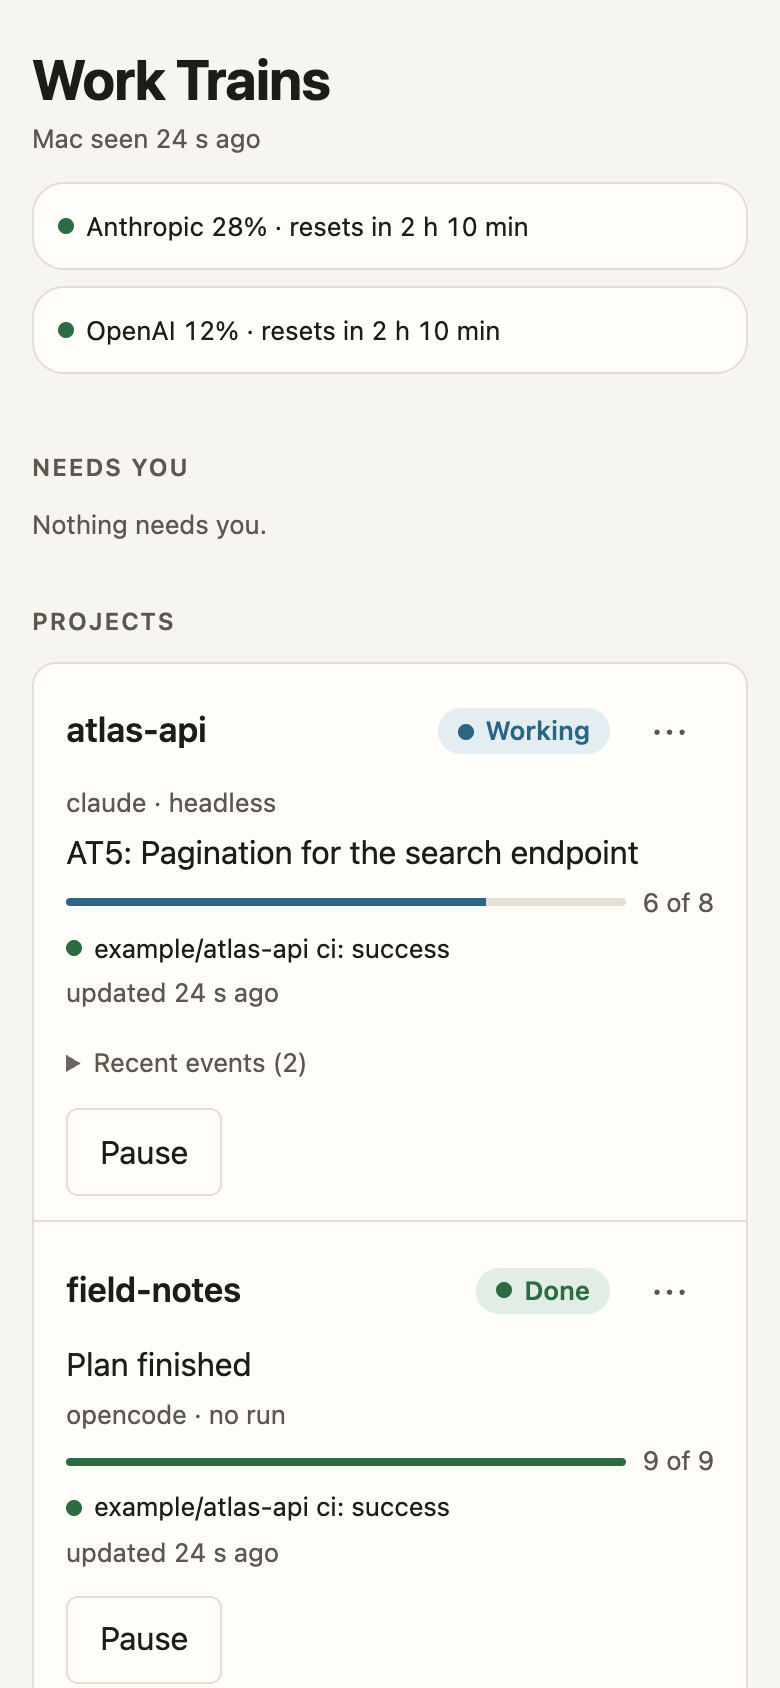
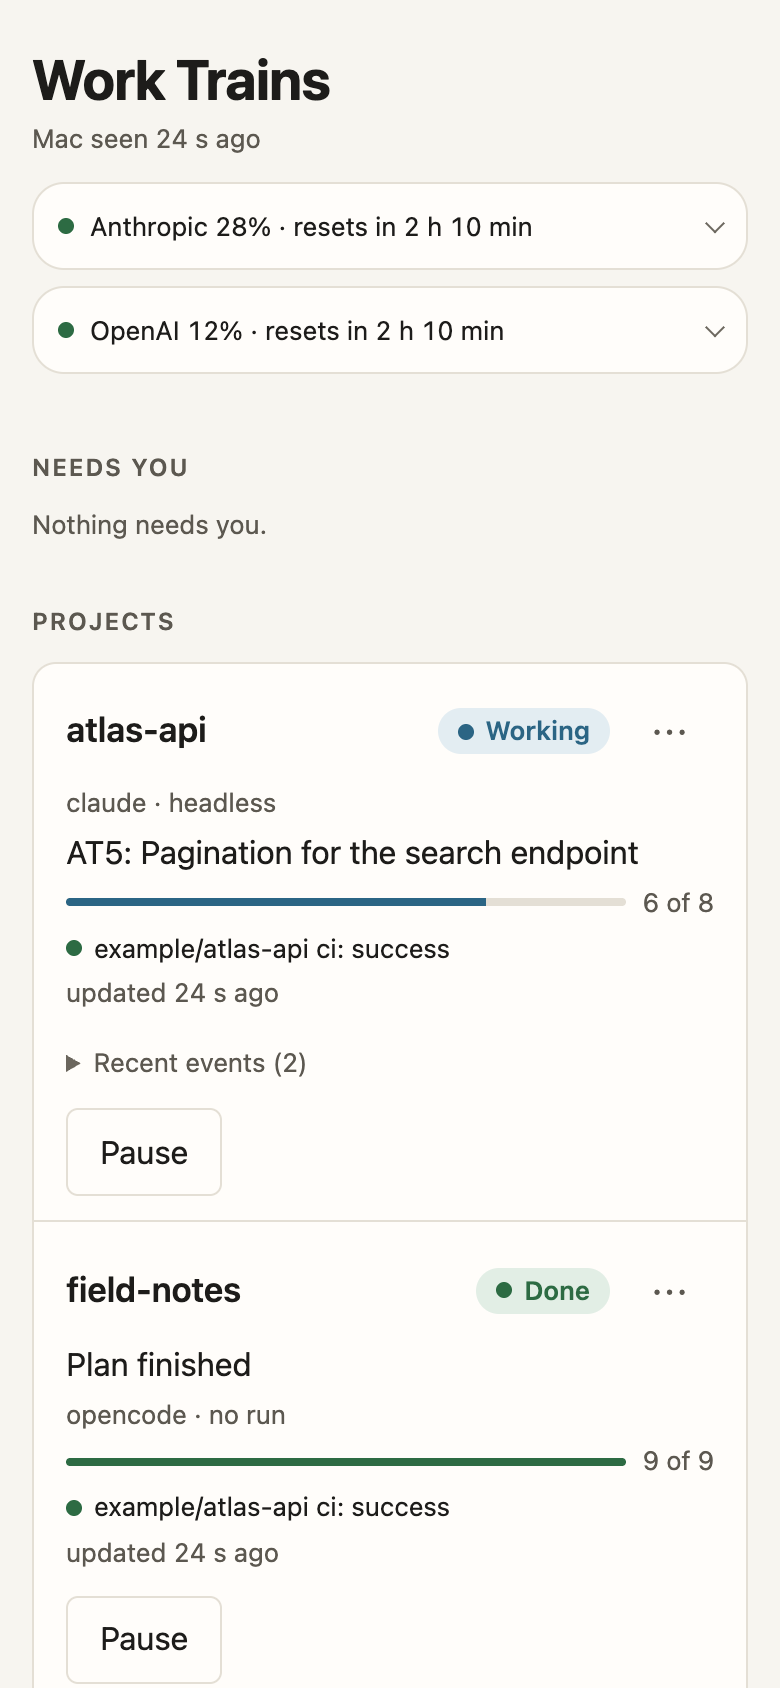
fix(remote): WT22-C review fixes: invalid reset times, chip chevron and joined detail, pinned screenshot clock
An invalid or out-of-range resets_at no longer throws and blanks the header; the chip and its
detail leave the reset out. Budget chips get a CSS chevron and a tinted hover/active state; an
open chip and its detail join into one card with a rule in the level colour. screens.ts serves
the fixtures at a fixed instant and freezes the page's Date there, so re-runs are byte-identical.
Tests: DST-day resets (Europe/London, America/Los_Angeles), invalid times, and a weekly-red
posture with no weekly reset.

diff --git a/remote/e2e/screens.ts b/remote/e2e/screens.ts
@@ -7,7 +7,8 @@
 // carrying the Worker's own security headers so a CSP violation shows as it would live. No Worker, D1, Access
 // or orch runs, so no real data can reach a shot. Chrome is driven headless over the DevTools protocol with
 // Node's global WebSocket: no dependencies. Chrome is not iOS Safari (no Dynamic Type, no safe-area insets,
-// different font rasterising); the real-phone check is the owner's.
+// different font rasterising); the real-phone check is the owner's. Every shot is taken at one fixed instant
+// in one zone and locale (SHOT_NOW_MS, pinPageClock), so a re-run produces the same PNGs.
 import { spawn, type ChildProcess } from "node:child_process";
 import { existsSync, mkdirSync, mkdtempSync, readdirSync, readFileSync, rmSync, writeFileSync } from "node:fs";
 import { createServer, type Server } from "node:http";
@@ -44,6 +45,11 @@ const DEVICE_SCALE_FACTOR = 2;
 /** The zone and locale every shot renders reset times in (the owner's), whatever the host's. */
 const SHOT_TIME_ZONE = "Europe/London";
 const SHOT_LOCALE = "en-GB";
+/**
+ * The instant every shot is taken at, on the fixture server and in the page alike, so a reset's clock time
+ * ("resets 14:00", "Sat 14:50") and every "ago" are the same on each run and a re-run is byte-identical.
+ */
+const SHOT_NOW_MS = Date.parse("2026-10-20T11:50:00Z");
 
 const CHROME_START_TIMEOUT_MS = 15_000;
 /** How long Chrome gets to exit after SIGTERM before it is SIGKILLed. */
@@ -113,6 +119,7 @@ async function main(): Promise<void> {
     const foreignRequests = await watchForeignRequests(tab, fixtureServer.origin);
     const shots: { file: string; png: Buffer }[] = [];
     await pinLocaleAndTimeZone(tab);
+    await pinPageClock(tab);
     for (const [state, { fixture, click }] of Object.entries(SCREEN_STATES)) {
       fixtureServer.serve(fixture);
       for (const device of DEVICES) {
@@ -160,9 +167,8 @@ function findChrome(): string {
 /** Every fixture must be a Summary the Worker could send; one that drifted from the protocol fails the run. */
 function validateFixtures(): void {
   const validate = compileSchema(JSON.parse(readFileSync(SCHEMA_URL, "utf8")));
-  const nowMs = Date.now();
   const failures = Object.entries(SCREEN_STATES).flatMap(([state, { fixture }]) => {
-    const result = validate("Summary", fixture(nowMs));
+    const result = validate("Summary", fixture(SHOT_NOW_MS));
     return result.ok ? [] : result.errors.map(({ path, message }) => `${state}: ${path || "/"} ${message}`);
   });
   if (failures.length > 0) throw new ScreensError(`fixtures are not valid Summaries:\n${failures.join("\n")}`);
@@ -184,7 +190,7 @@ function startFixtureServer(): Promise<FixtureServer> {
     const headers = { ...SECURITY_HEADERS, "Cache-Control": "no-store" };
     if (request.method === "GET" && path === "/api/v1/summary" && current !== null) {
       response.writeHead(200, { ...headers, "Content-Type": "application/json" });
-      response.end(JSON.stringify(current(Date.now())));
+      response.end(JSON.stringify(current(SHOT_NOW_MS)));
       return;
     }
     const asset = publicAsset(path);
@@ -420,6 +426,23 @@ async function watchForeignRequests(tab: Tab, origin: string): Promise<string[]>
 async function pinLocaleAndTimeZone(tab: Tab): Promise<void> {
   await tab.send("Emulation.setLocaleOverride", { locale: SHOT_LOCALE });
   await tab.send("Emulation.setTimezoneOverride", { timezoneId: SHOT_TIME_ZONE });
+}
+
+/**
+ * Freezes the page's Date at SHOT_NOW_MS before any page script runs: `Date.now()` and `new Date()` return
+ * it, while `new Date(value)`, `Date.parse` and timers behave as ever. DevTools injects the script, so the
+ * page's CSP does not apply to it, and the page itself is served unchanged.
+ */
+async function pinPageClock(tab: Tab): Promise<void> {
+  const source = `(() => {
+    const frozenMs = ${SHOT_NOW_MS};
+    const RealDate = Date;
+    globalThis.Date = class extends RealDate {
+      constructor(...args) { if (args.length === 0) super(frozenMs); else super(...args); }
+      static now() { return frozenMs; }
+    };
+  })();`;
+  await tab.send("Page.addScriptToEvaluateOnNewDocument", { source });
 }
 
 /**

diff --git a/remote/worker/public/model.js b/remote/worker/public/model.js
@@ -79,7 +79,8 @@ function chipText(label, posture, nowMs, format) {
   const pct = weekly ? posture.weekly_pct : posture.five_hour_pct;
   const resetsAt = weekly ? (posture.weekly_resets_at ?? null) : posture.resets_at;
   const parts = [`${label}${weekly ? " weekly" : ""}${pct === null ? "" : ` ${Math.round(pct)}%`}`];
-  if (resetsAt !== null) parts.push(`resets ${resetPhrase(resetsAt, nowMs, format)}`);
+  const phrase = resetsAt === null ? null : resetPhrase(resetsAt, nowMs, format);
+  if (phrase !== null) parts.push(`resets ${phrase}`);
   const credits = posture.credits ? creditsShort(posture.credits) : null;
   if (credits !== null) parts.push(credits);
   return parts.join(" · ");
@@ -98,10 +99,9 @@ function chipDetail(posture, nowMs, format) {
 /** "5-hour 28% · resets 22:50 (in 2 h 10 min)", "Weekly 41% · resets Mon 08:04". */
 function windowLine(name, pct, resetsAt, nowMs, format) {
   const parts = [pct === null ? name : `${name} ${Math.round(pct)}%`];
-  if (resetsAt !== null) {
-    const { relative, clock } = resetWhen(resetsAt, nowMs, format);
-    parts.push(`resets ${relative === null || clock === null ? (relative ?? clock) : `${clock} (${relative})`}`);
-  }
+  const { relative, clock } = resetsAt === null ? UNKNOWN_RESET : resetWhen(resetsAt, nowMs, format);
+  if (relative !== null && clock !== null) parts.push(`resets ${clock} (${relative})`);
+  else if (relative !== null || clock !== null) parts.push(`resets ${relative ?? clock}`);
   return parts.join(" · ");
 }
 
@@ -109,16 +109,21 @@ function windowLine(name, pct, resetsAt, nowMs, format) {
  * When a window resets, as its chip says it: "due" once past (the Mac's reading may be 30 min old),
  * "in < 1 min", "in 42 min", "in 2 h 10 min" within a day (minutes rounded up, so never "in 0 min"),
  * then the local weekday and time, "Mon 08:04", with the date from six days on, "Mon 27 Oct 08:04".
+ * Null for a time that is not a date: the schema checks only its shape, so "2026-13-45T99:99:99Z" passes.
  */
 export function resetPhrase(resetsAtIso, nowMs, format = {}) {
   const { relative, clock } = resetWhen(resetsAtIso, nowMs, format);
   return relative ?? clock;
 }
 
-/** The relative phrase (within a day) and the local clock time (null once due). */
+/** A reset nobody can place in time: the page says nothing about it rather than fail the render. */
+const UNKNOWN_RESET = Object.freeze({ relative: null, clock: null });
+
+/** The relative phrase (within a day) and the local clock time (null once due); both null for an invalid time. */
 function resetWhen(resetsAtIso, nowMs, format) {
   const at = new Date(resetsAtIso);
   const deltaMs = at.getTime() - nowMs;
+  if (Number.isNaN(deltaMs)) return UNKNOWN_RESET;
   if (deltaMs <= 0) return { relative: "due", clock: null };
   if (deltaMs < MINUTE_MS) return { relative: "in < 1 min", clock: clockTime(at, format) };
   if (deltaMs < DAY_MS) {

diff --git a/remote/worker/test/ui-model.test.ts b/remote/worker/test/ui-model.test.ts
@@ -151,6 +151,40 @@ test("a reset's clock time is the viewer's zone, 24-hour even where the locale's
 type Chip = { vendor: string; level: string; text: string; detail: string[] };
 const chipsOf = (budget: unknown): Chip[] => model.budgetChips(budget, NOW, UTC_GB);
 
+// The relative part counts real elapsed time and the clock part is the wall clock at the reset, so on
+// the day the clocks go back the two disagree by an hour, and the repeated hour reads as itself.
+test("on a day the clocks change, a reset's relative time is elapsed time and its clock is the local one", () => {
+  const londonDetail = (resetsAt: string) =>
+    model.budgetChips(
+      { anthropic: { level: "green", five_hour_pct: 10, weekly_pct: null, resets_at: resetsAt, window: "five_hour" }, openai: null },
+      Date.parse("2026-10-24T23:00:00Z"), // Sun 25 Oct 00:00 BST; at 01:00 UTC 02:00 BST becomes 01:00 GMT
+      { locale: "en-GB", timeZone: "Europe/London" },
+    )[0].detail[0];
+  assert.equal(londonDetail("2026-10-25T00:30:00Z"), "5-hour 10% · resets 01:30 (in 1 h 30 min)");
+  assert.equal(londonDetail("2026-10-25T01:30:00Z"), "5-hour 10% · resets 01:30 (in 2 h 30 min)");
+  assert.equal(londonDetail("2026-10-25T03:00:00Z"), "5-hour 10% · resets 03:00 (in 4 h)");
+
+  const losAngeles = { locale: "en-US", timeZone: "America/Los_Angeles" };
+  const midnightPdt = Date.parse("2026-11-01T07:00:00Z"); // Sun 1 Nov 00:00 PDT; at 09:00 UTC 02:00 PDT becomes 01:00 PST
+  assert.equal(model.resetPhrase("2026-11-01T10:30:00Z", midnightPdt, losAngeles), "in 3 h 30 min");
+  assert.equal(model.resetPhrase("2026-11-02T16:00:00Z", Date.parse("2026-10-28T12:00:00Z"), losAngeles), "Mon 08:00");
+});
+
+// The schema checks an ISO time's shape only, so a time that is not a date can reach the page.
+test("a reset time that is not a date, or no clock to measure it by, says nothing rather than fail", () => {
+  for (const resetsAt of ["garbage", "", "2026-13-45T99:99:99Z"]) {
+    assert.equal(model.resetPhrase(resetsAt, NOW, UTC_GB), null, resetsAt);
+    const [anthropic] = model.budgetChips(
+      { anthropic: { level: "amber", five_hour_pct: 80, weekly_pct: 41, resets_at: resetsAt, weekly_resets_at: resetsAt, window: "five_hour" }, openai: null },
+      NOW,
+      UTC_GB,
+    );
+    assert.equal(anthropic.text, "Anthropic 80%", resetsAt);
+    assert.deepEqual(anthropic.detail, ["5-hour 80%", "Weekly 41%"], resetsAt);
+  }
+  assert.equal(model.resetPhrase(IN_2H10, Number.NaN, UTC_GB), null);
+});
+
 test("with no budget, or a vendor the Mac could not read, a chip says there is no reading", () => {
   const unread = { level: "unknown", five_hour_pct: null, weekly_pct: null, resets_at: null, window: "five_hour" };
   for (const budget of [null, { anthropic: null, openai: null }, { anthropic: unread, openai: unread }]) {

diff --git a/remote/worker/public/app.css b/remote/worker/public/app.css
@@ -208,11 +208,38 @@ p {
 button.chip {
   display: inline-flex;
   align-items: center;
-  gap: 0.375rem;
+  gap: var(--space-2);
   border-radius: var(--radius-l);
   padding: var(--space-1) var(--space-3);
   font-size: var(--text-small);
   text-align: start;
+}
+
+button.chip:is(:hover, :active):not(:disabled) {
+  background: var(--tint);
+}
+
+/* The chevron says the chip opens; it points up while open. At the end of a full-width phone chip. */
+button.chip::after {
+  content: "";
+  flex: none;
+  inline-size: 0.375rem;
+  block-size: 0.375rem;
+  margin-inline-start: auto;
+  border-inline-end: 1.5px solid var(--ink-3);
+  border-block-end: 1.5px solid var(--ink-3);
+  transform: translateY(-25%) rotate(45deg);
+  transition: transform var(--dur-fast) var(--ease);
+}
+
+button.chip[aria-expanded="true"]::after {
+  transform: translateY(25%) rotate(-135deg);
+}
+
+/* An open chip and its detail are one card, so two open details cannot be read as each other's. */
+button.chip[aria-expanded="true"] {
+  border-end-start-radius: 0;
+  border-end-end-radius: 0;
 }
 
 /* On a phone the chips stack full width, so a long one wraps inside its own row. */
@@ -223,15 +250,17 @@ button.chip {
   }
 }
 
-/* As wide as its chip and no wider (it adds nothing to the row's width), so opening it moves no other chip. */
+/* As wide as its chip and no wider (it adds nothing to the row's width), so opening it moves no other chip.
+   Joined to its chip (no gap, no top border), with a rule in the chip's level colour. */
 .chip-detail {
   inline-size: 0;
   min-inline-size: 100%;
-  margin-top: var(--space-1);
   padding: var(--space-2) var(--space-3);
   background: var(--surface);
   border: var(--divider);
-  border-radius: var(--radius-m);
+  border-block-start: none;
+  border-inline-start: 3px solid var(--tone);
+  border-radius: 0 0 var(--radius-l) var(--radius-l);
   font-size: var(--text-small);
   color: var(--ink-2);
   font-variant-numeric: tabular-nums;

diff --git a/remote/e2e/screens/fixtures.ts b/remote/e2e/screens/fixtures.ts
@@ -1,6 +1,6 @@
 // Summaries the screenshot script (remote/e2e/screens.ts) serves to the page, one per state worth seeing.
 // Every name, URL and id is made up: no real project, owner or machine can reach a screenshot. Times are
-// offsets from `nowMs`, so "24 s ago" on the page is exact whenever the shot is taken.
+// offsets from `nowMs`, the fixed instant screens.ts serves them at and freezes the page's clock at.
 import type { Json } from "../phone.ts";
 
 export type Fixture = (nowMs: number) => Json;

diff --git a/remote/worker/public/app.js b/remote/worker/public/app.js
@@ -297,7 +297,7 @@ function budgetChip(chip) {
       chip.text,
       el("span", { class: "vh" }, ` (${chip.level})`),
     ),
-    el("div", { class: "chip-detail", id: detailId, hidden: !open }, ...chip.detail.map((line) => el("p", {}, line))),
+    el("div", { class: `chip-detail level-${chip.level}`, id: detailId, hidden: !open }, ...chip.detail.map((line) => el("p", {}, line))),
   );
 }
 

diff --git a/go/internal/remote/snapshot/budget_test.go b/go/internal/remote/snapshot/budget_test.go
@@ -70,6 +70,23 @@ func TestBudgetNamesTheDrivingWindowAndBothResets(t *testing.T) {
 	}
 }
 
+// A weekly window that is red but carries no reset still drives the level; the page then shows no
+// weekly reset rather than borrowing the 5-hour one.
+func TestBudgetNamesTheWeeklyWindowWithoutItsReset(t *testing.T) {
+	file := writeUsage(t, `{"generated_at":"2026-10-20T11:31:00.000Z",
+		"claude":{"ok":true,"session":{"pct":30,"resets_at":"2026-10-20T13:00:00Z"},"weekly":{"pct":100}},
+		"codex":{"ok":false}}`)
+	budget, err := Budget(testUsageConfig(t, file))
+	if err != nil || budget == nil {
+		t.Fatalf("Budget = %v, %v", budget, err)
+	}
+	got, _ := json.Marshal(budget.Anthropic)
+	want := `{"level":"red","five_hour_pct":30,"weekly_pct":100,"resets_at":"2026-10-20T13:00:00.000Z","window":"weekly"}`
+	if string(got) != want {
+		t.Errorf("Anthropic = %s\nwant %s", got, want)
+	}
+}
+
 func TestBudgetIsNullWithoutAFreshCache(t *testing.T) {
 	cases := map[string]string{
 		"no cache":            filepath.Join(t.TempDir(), "absent.json"),

diff --git a/CHANGELOG.md b/CHANGELOG.md
@@ -8,11 +8,13 @@
   and time (with the date from six days out); a passed reset reads "resets due". Tapping a chip opens both windows,
   `5-hour 28% · resets 22:50 (in 2 h 10 min)` and `Weekly 41% · resets Mon 08:04`, with the credits in full (they no
   longer have a chip of their own); it stays open across the 15 s refresh. Chips are neutral pills whose dot carries
-  the level, with the level in words for screen readers, and stack full width on a phone. The v1 protocol's
+  the level and a chevron that turns up while open, with the level in words for screen readers, and stack full
+  width on a phone; an open chip and its detail join into one card with a rule in the level colour. A reset time
+  that is not a date is left out rather than breaking the page. The v1 protocol's
   `Posture` gains two optional fields, `weekly_resets_at` and `window`, which `orch remote` now sends. **Rollout:**
   deploy the Worker first, then rebuild `orch`: an older Worker answers a push that carries them with 400 and stores
   nothing. Until the rebuild the page falls back to the 5-hour window. Shots, with the new `budget-expanded` state:
-  `remote/docs/design/after/`; `screens.ts` pins Europe/London and en-GB.
+  `remote/docs/design/after/`; `screens.ts` pins Europe/London, en-GB and the clock, so a re-run is byte-identical.
 - remote: the Work Trains page is restyled, light only (WT22-B): a warm off-white ground, one accent for Accept,
   Send, Retry, links and the focus ring, and colour only for status (a dot and a word on a tint per project, the
   progress bar in the project's state colour, a dot per CI run that is red only for a real failure). The Needs-you

diff --git a/remote/README.md b/remote/README.md
@@ -338,8 +338,8 @@ node remote/e2e/screens.ts --out remote/docs/design/after [--chrome <path>]
 
 It serves `worker/public/` and fixture summaries (`e2e/screens/fixtures.ts`, fake projects only, each checked
 against the protocol's `Summary` first) on loopback with the Worker's security headers, drives headless Chrome
-over the DevTools protocol (in Europe/London time and the en-GB locale, so reset times do not depend on the
-host), and writes `<state>-<phone|desktop>.png` for the states `needs-you`, `calm`,
+over the DevTools protocol (in Europe/London time and the en-GB locale, with the fixtures and the page's clock
+frozen at one instant, 2026-10-20 11:50 UTC, so a re-run writes the same PNGs whatever the host or hour), and writes `<state>-<phone|desktop>.png` for the states `needs-you`, `calm`,
 `stale-mac`, `failed-ci-paused`, `budget-credits`, `budget-expanded` (OpenAI's budget chip opened) and `action-question` (`docs/design/before/` is the page before the WT22 redesign,
 `docs/design/after/` the page now; phone 390x844, desktop 1280x900, both at 2x, light mode). It fails if a
 fixture is not a valid `Summary`. Chrome runs with its background services off and a proxy that refuses every
